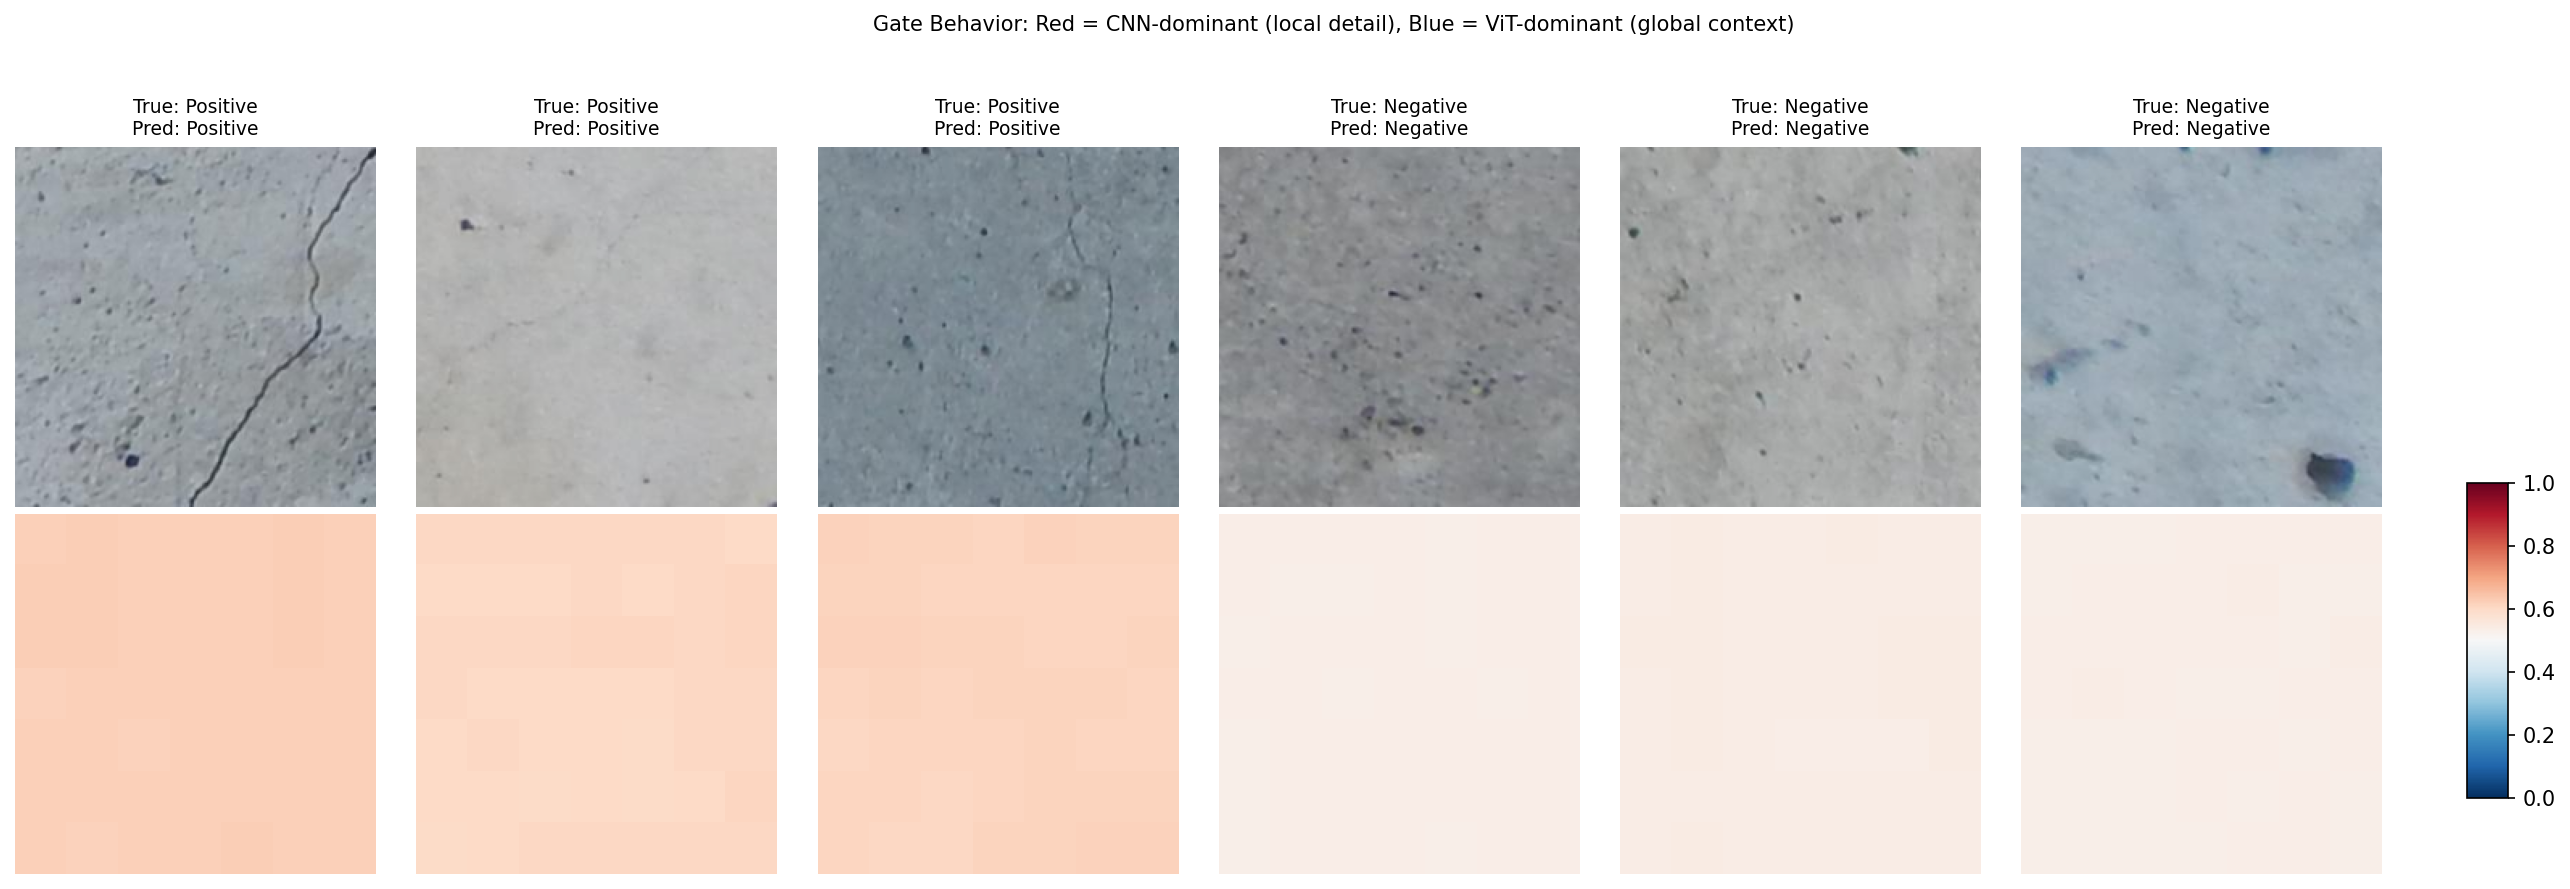
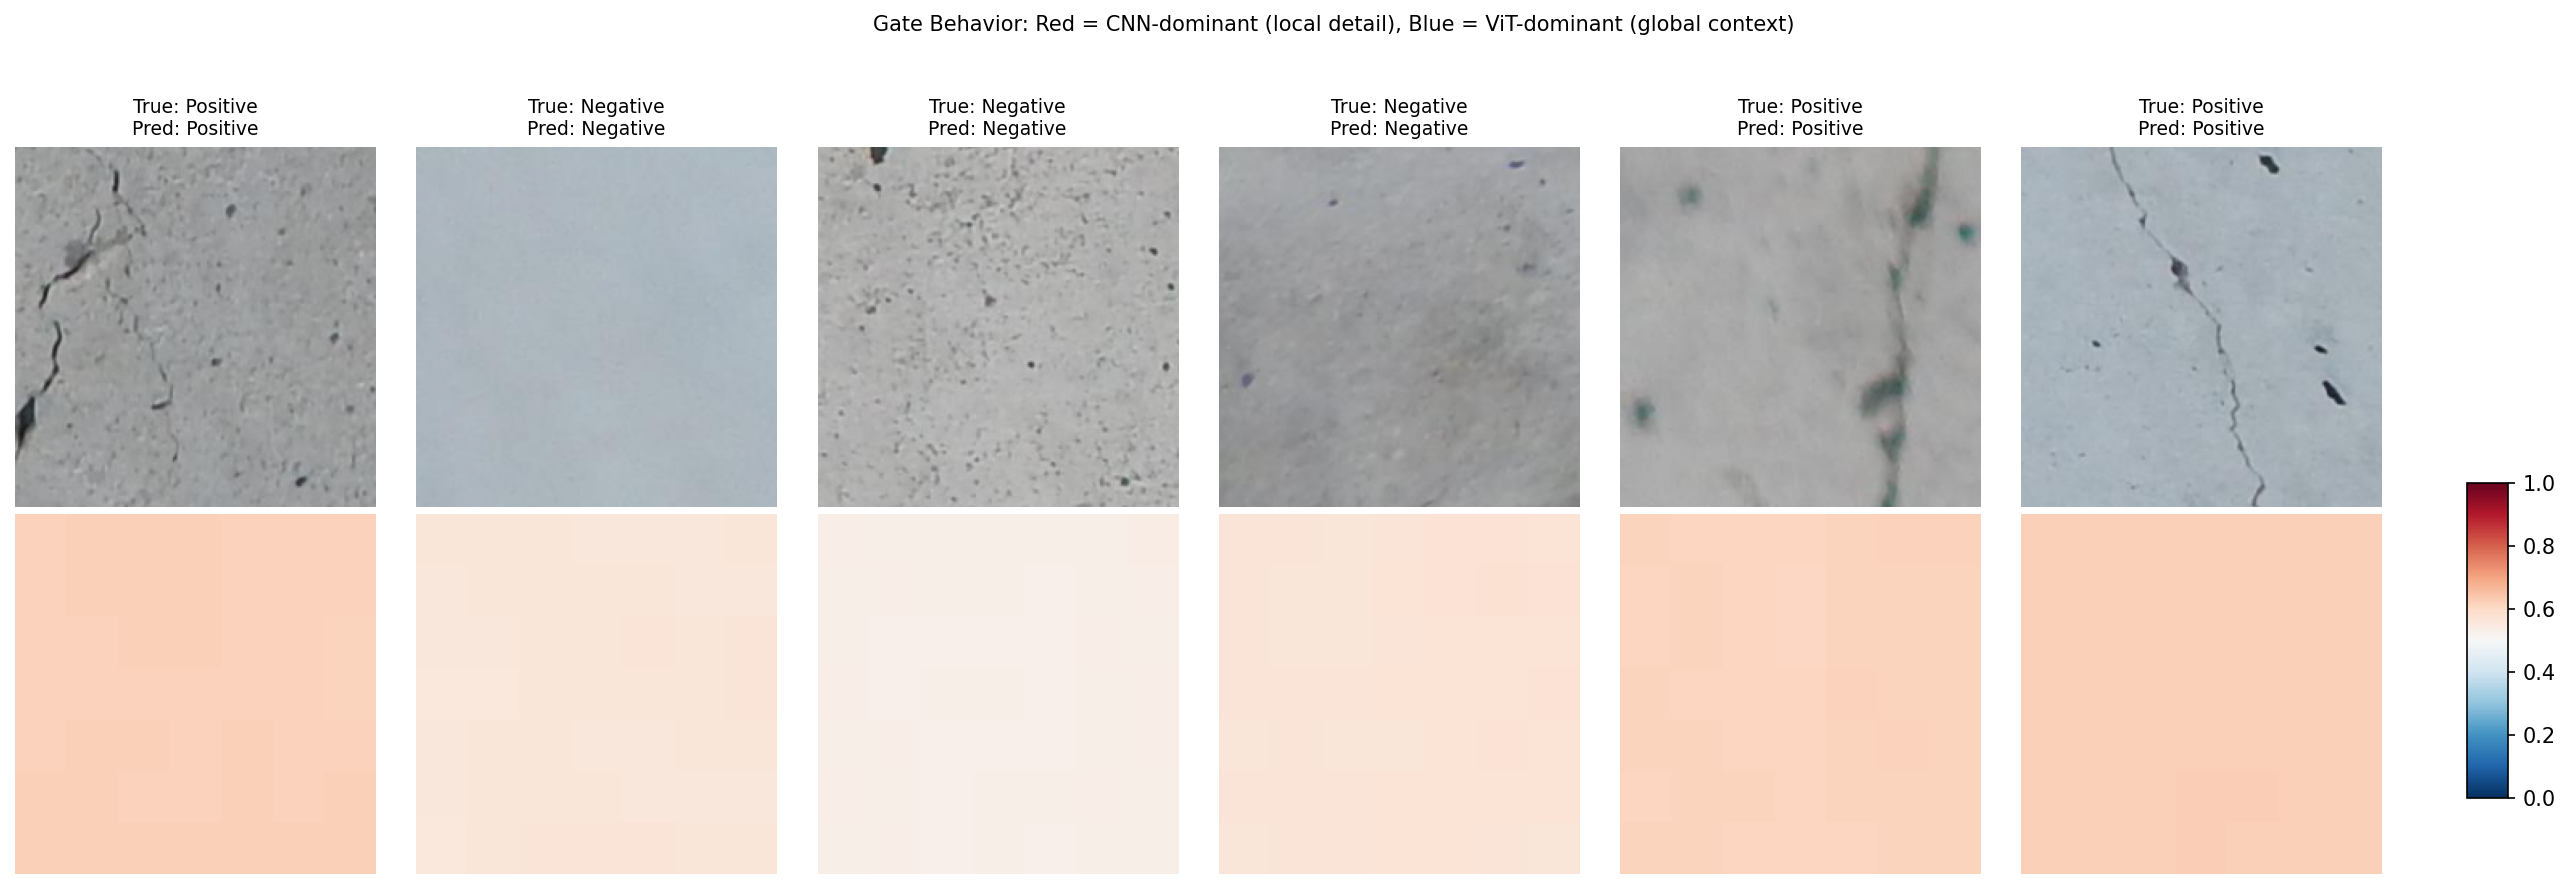
Add precision-recall curve analysis to evaluation and app

diff --git a/evaluate.py b/evaluate.py
@@ -38,7 +38,7 @@ import matplotlib.pyplot as plt
 from torchvision import transforms
 from torchvision.datasets import ImageFolder
 from torch.utils.data import DataLoader
-from sklearn.metrics import confusion_matrix, roc_curve, auc
+from sklearn.metrics import confusion_matrix, roc_curve, auc, precision_recall_curve, average_precision_score
 
 from csaf_net import build_model, get_device
 
@@ -501,6 +501,59 @@ def plot_roc_curves(device, data_dir="dataset", checkpoint_dir="checkpoints",
     print(f"Saved: {out_path}")
 
 
+def plot_pr_curves(device, data_dir="dataset", checkpoint_dir="checkpoints",
+                    out_path="figures/pr_curves.png"):
+    """
+    Precision-Recall curve for all variants, overlaid on one axis.
+
+    Unlike ROC-AUC (which was found to be nearly tied across attention-based
+    variants), the PR curve makes visible HOW EACH VARIANT TRADES PRECISION
+    FOR RECALL across the full range of thresholds -- not just at the
+    default 0.5 cutoff. This directly supports the finding that the gate's
+    contribution is a shift in operating point, not a general ranking
+    improvement (which ROC-AUC alone would suggest is absent).
+    """
+    loader, test_ds = get_test_loader(data_dir)
+
+    fig, ax = plt.subplots(figsize=(7.5, 7))
+
+    for variant in VARIANTS:
+        ckpt_path = os.path.join(checkpoint_dir, f"{variant}_best.pth")
+        if not os.path.exists(ckpt_path):
+            print(f"  Skipping {variant} -- checkpoint not found at {ckpt_path}")
+            continue
+
+        print(f"  Evaluating {variant} for PR curve...")
+        model = build_model(variant=variant).to(device)
+        model.load_state_dict(torch.load(ckpt_path, map_location=device))
+
+        labels, preds, probs = get_predictions(model, loader, device)
+        precision, recall, _ = precision_recall_curve(labels, probs)
+        ap = average_precision_score(labels, probs)
+
+        ax.plot(recall, precision, linewidth=2,
+                label=f"{VARIANT_LABELS[variant]} (AP = {ap:.3f})")
+
+        del model
+        if device.type == "mps":
+            torch.mps.empty_cache()
+
+    baseline = np.mean(test_ds.targets) if hasattr(test_ds, "targets") else 0.5
+    ax.axhline(baseline, linestyle="--", color="gray",
+               label=f"Random Chance (AP = {baseline:.3f})")
+    ax.set_xlabel("Recall")
+    ax.set_ylabel("Precision")
+    ax.set_title("Precision-Recall Curves -- All Variants")
+    ax.legend(loc="lower left", fontsize=9)
+    ax.grid(alpha=0.3)
+
+    plt.tight_layout()
+    os.makedirs(os.path.dirname(out_path), exist_ok=True)
+    plt.savefig(out_path, dpi=150, bbox_inches="tight")
+    plt.close()
+    print(f"Saved: {out_path}")
+
+
 if __name__ == "__main__":
     device = get_device()
     print(f"Using device: {device}\n")
@@ -525,5 +578,8 @@ if __name__ == "__main__":
 
     print("\nGenerating ROC curves for all variants...")
     plot_roc_curves(device)
+
+    print("\nGenerating Precision-Recall curves for all variants...")
+    plot_pr_curves(device)
 
     print("\nAll figures saved to figures/")

diff --git a/app.py b/app.py
@@ -313,6 +313,15 @@ with tab3:
         if os.path.exists("figures/gate_distribution.png"):
             st.image("figures/gate_distribution.png", width="stretch")
 
+        st.subheader("📈 Precision-Recall Curves")
+        if os.path.exists("figures/pr_curves.png"):
+            st.image("figures/pr_curves.png", width="stretch")
+            st.caption(
+                "Average Precision is comparable across all attention-based variants, "
+                "confirming the gate's benefit is a shift in operating point (precision/recall "
+                "trade-off at the deployed threshold) rather than a general ranking improvement."
+            )
+
         if "full_csaf" in available and "ungated_cross_attn" in available:
             gate_gain_f1 = (logs["full_csaf"]["test"]["f1"] - logs["ungated_cross_attn"]["test"]["f1"]) * 100
             gate_gain_recall = (logs["full_csaf"]["test"]["recall"] - logs["ungated_cross_attn"]["test"]["recall"]) * 100
